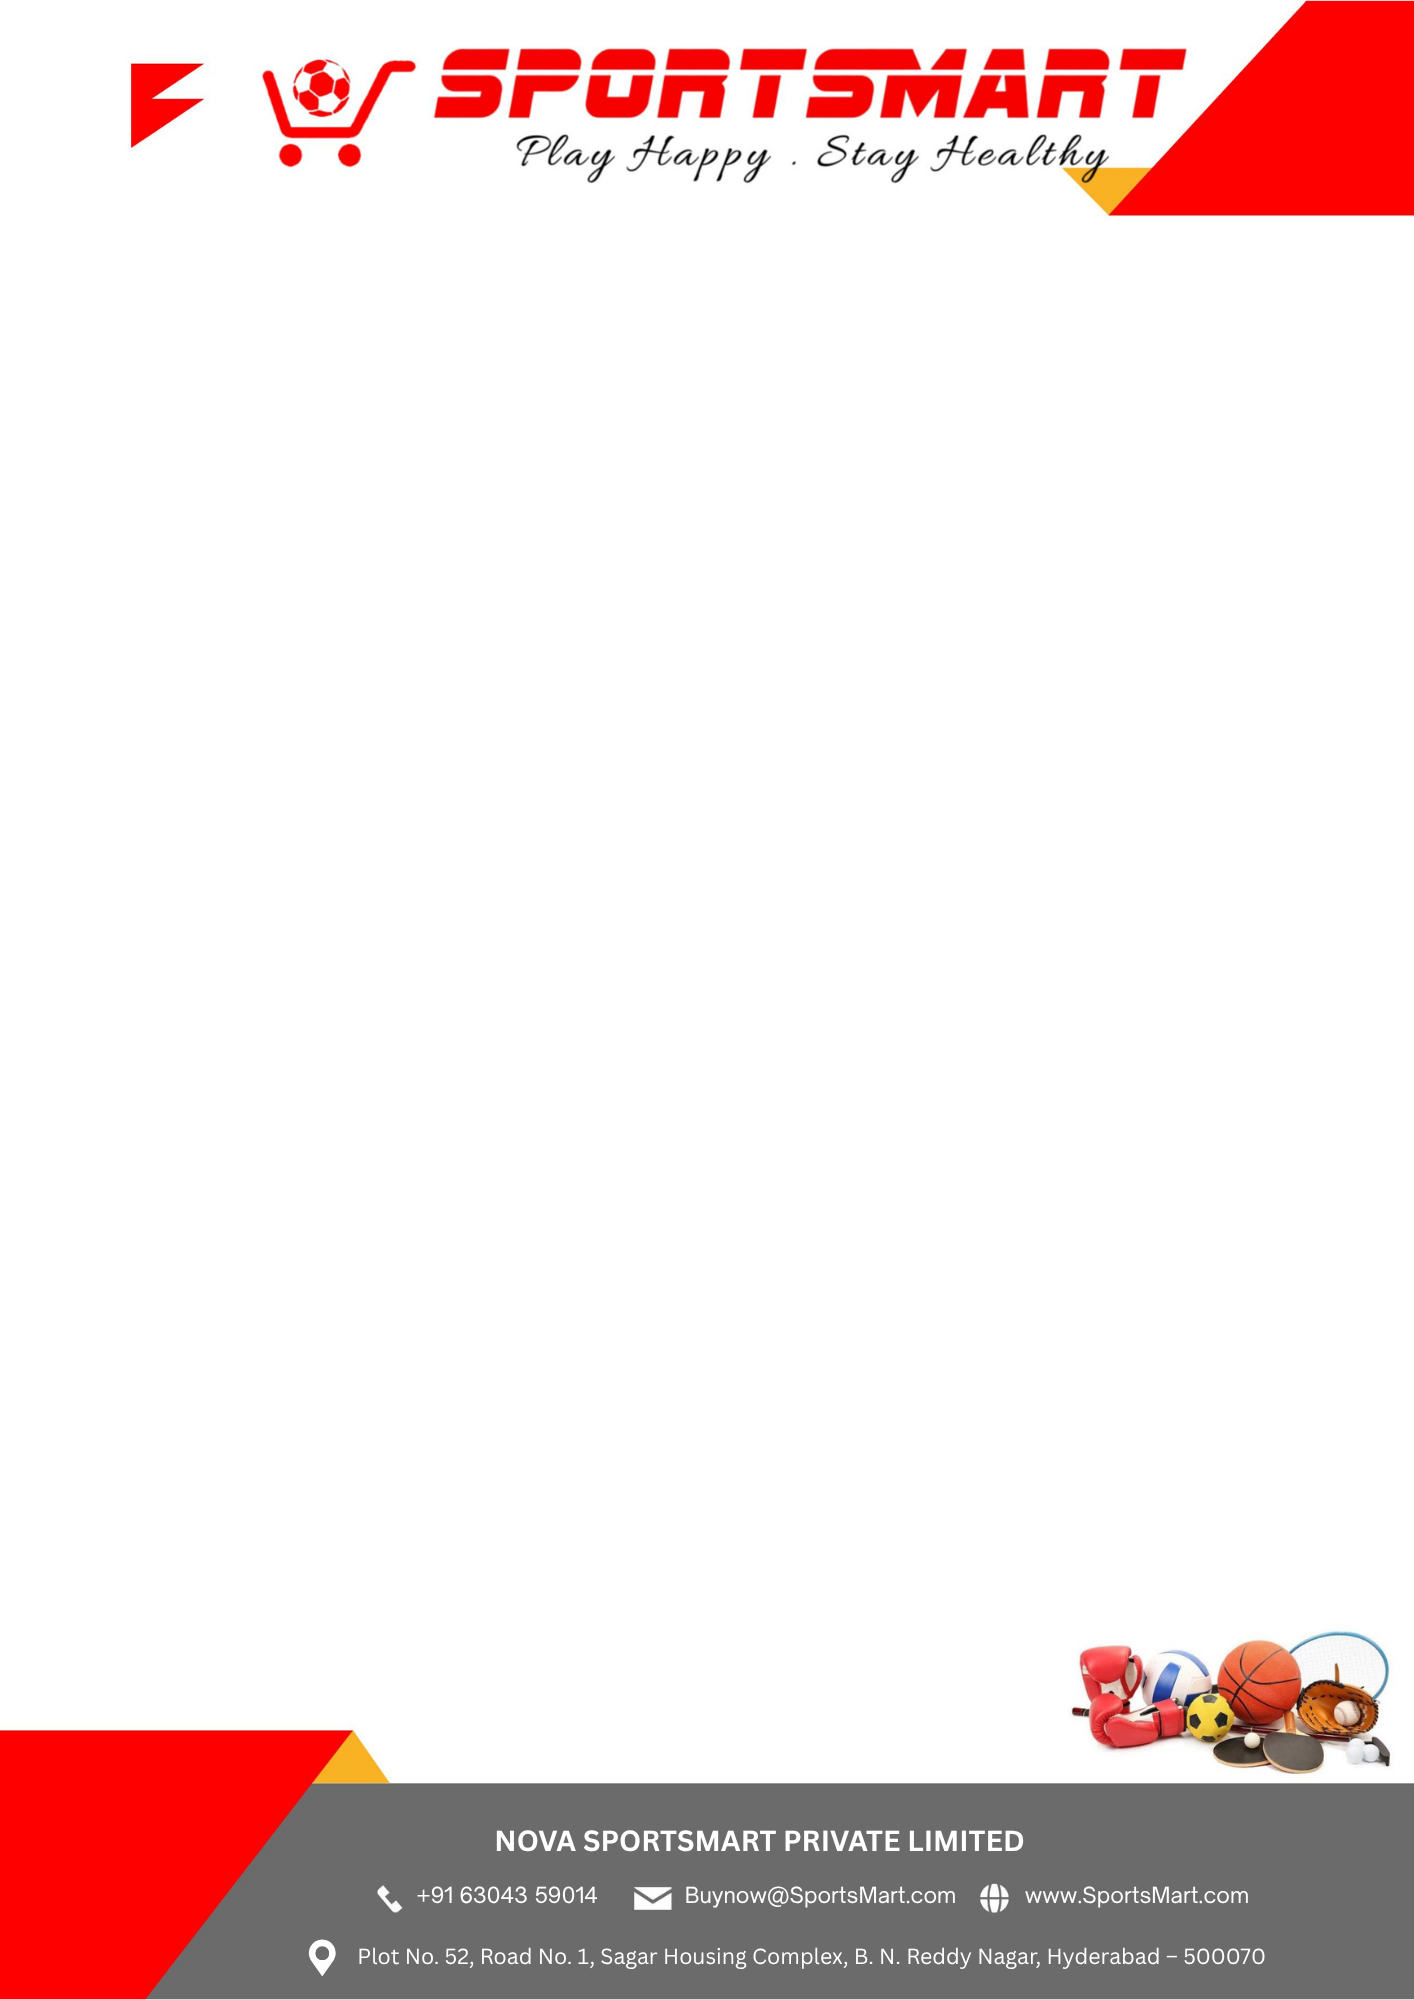
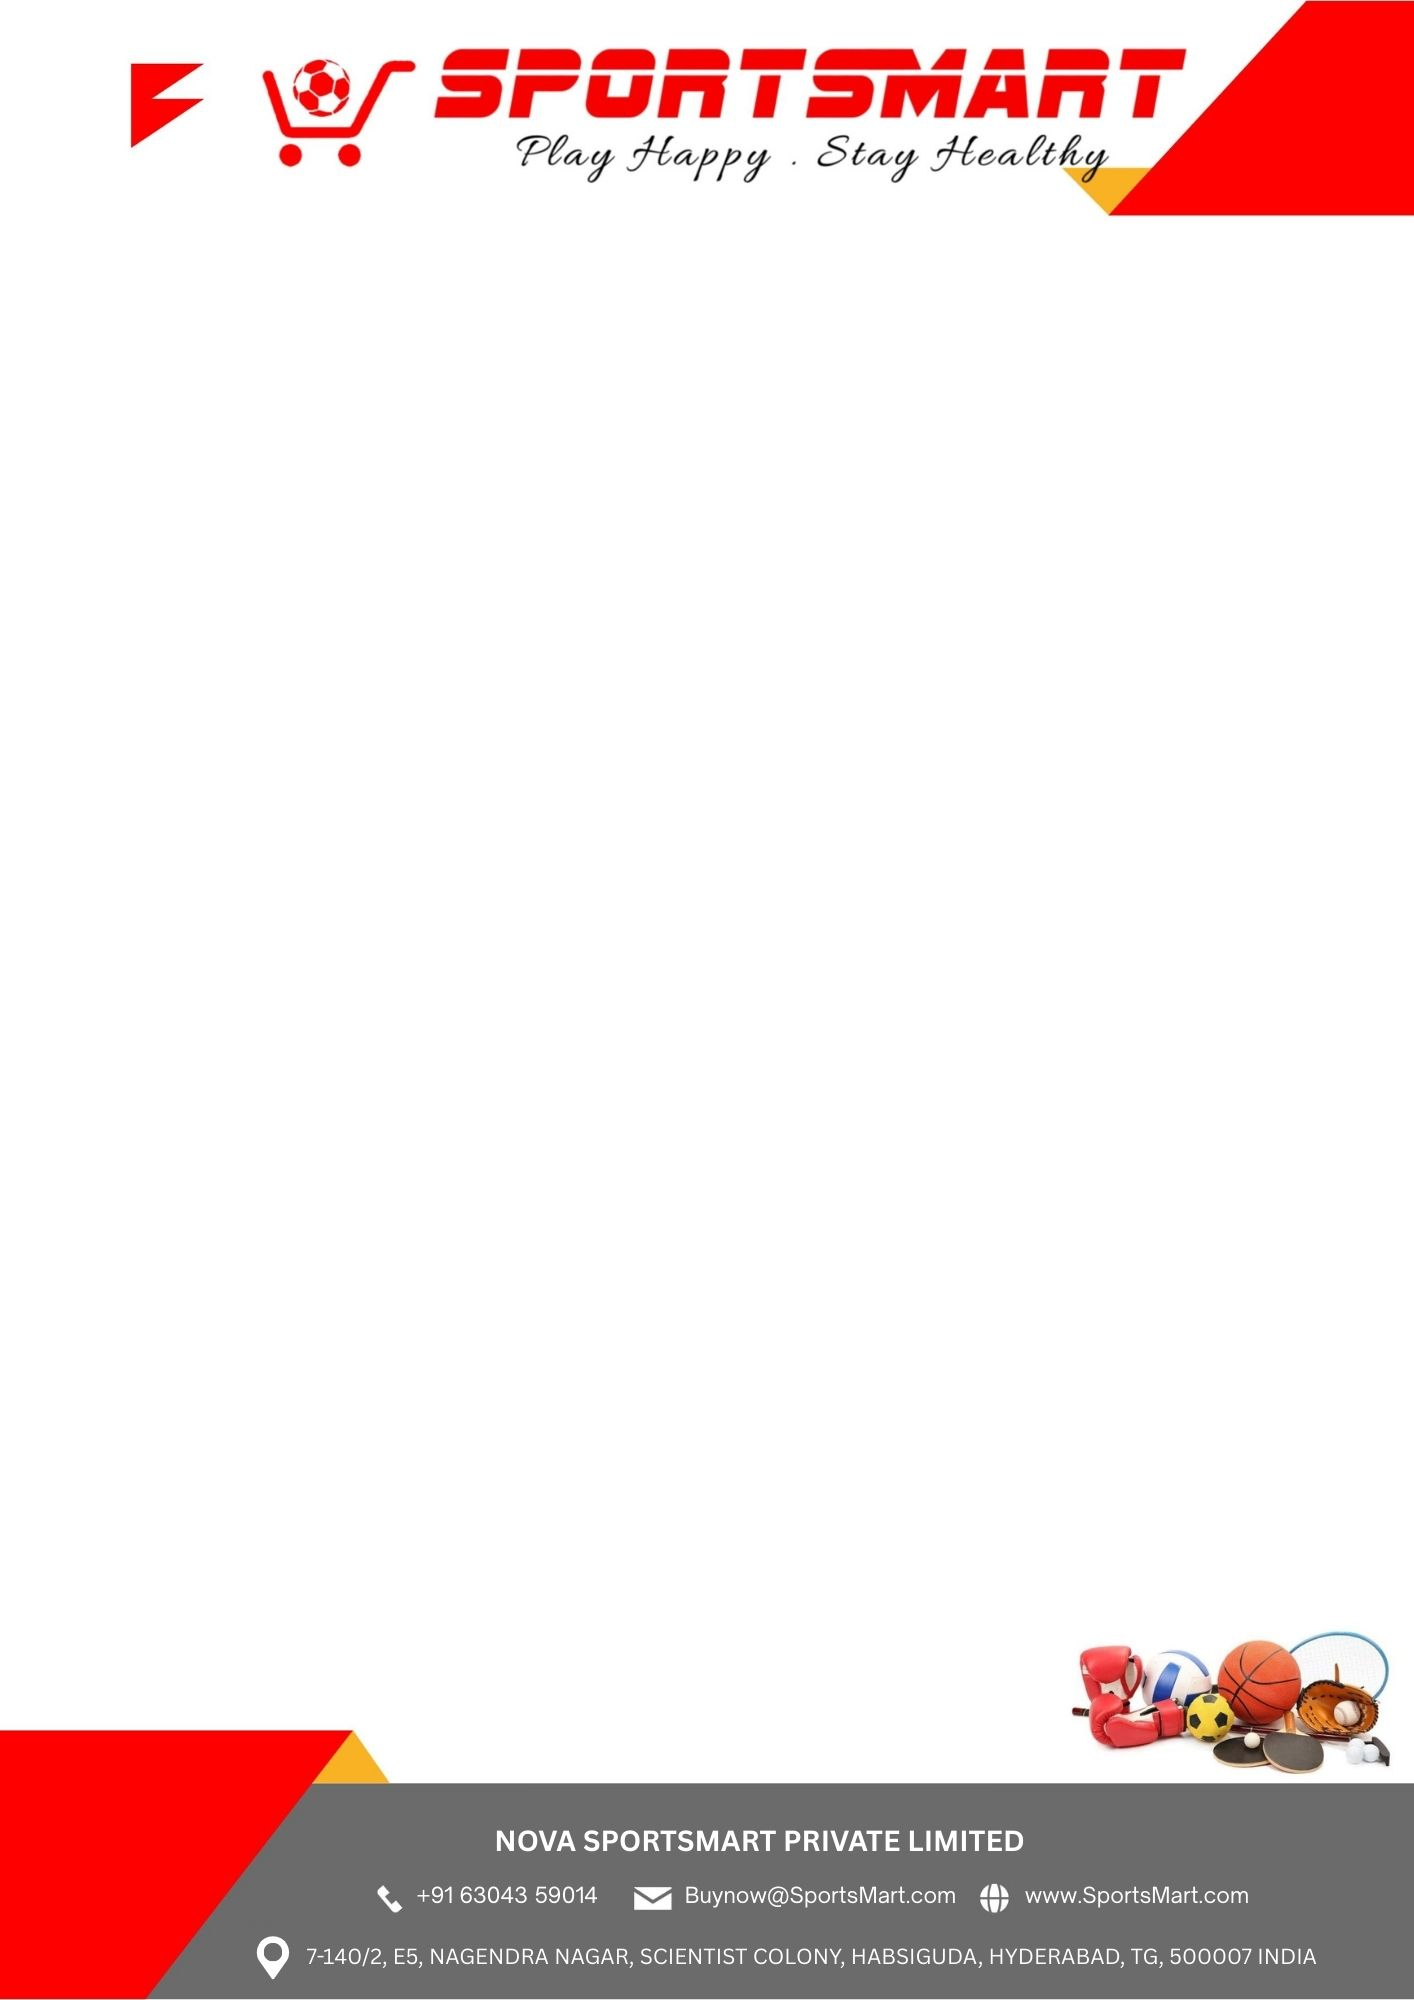
address updated

diff --git a/src/components/EBS-INDIA/Sportsmart/Offerletter/Offer.jsx b/src/components/EBS-INDIA/Sportsmart/Offerletter/Offer.jsx
@@ -27,8 +27,12 @@ const ComponentToPrint = React.forwardRef((props, ref) => {
             {Global.Offerform.position}
           </span>
           ” at
-          <span className="bol"> Nova Sportsmart Private Limited</span> Your
-          appointment is governed by the terms and conditions outlined below.
+          <span className="bol" style={{ fontSize: "15px" }}>
+            {" "}
+            Nova Sportsmart Private Limited
+          </span>{" "}
+          Your appointment is governed by the terms and conditions outlined
+          below.
         </p>
         <p className="let5">
           <span className="bol">1. JOB OFFER :</span> We are delighted to
@@ -49,10 +53,14 @@ const ComponentToPrint = React.forwardRef((props, ref) => {
             Panyam Sudheer
           </span>{" "}
           – Director. Your place of work will be
-          <span className="bol"> Nova Sportsmart Private Limited</span>, situated at{" "}
           <span className="bol" style={{ fontSize: "15px" }}>
-            Plot no: 52, Road no:1, BN Reddy, Saheb nagar kalan Sagar Housing
-            Complex 500070 Hyderabad TS India
+            {" "}
+            Nova Sportsmart Private Limited
+          </span>
+          , situated at{" "}
+          <span className="bol" style={{ fontSize: "15px" }}>
+            Plot No. 7-140/2, E-5 Nagendra Nagar, Scientist Colony Hyderabad,
+            Telangana 500007 India
           </span>
           . With our consulting services growing at a fast pace, we’re confident
           that your journey with us will be both enriching and successful. We
@@ -171,16 +179,18 @@ const ComponentToPrint = React.forwardRef((props, ref) => {
         </p>
         <p className="let21">
           ii) Your posting at present is at{" "}
-          <span className="bol">Nova Sportsmart Private Limited</span>. Hyderabad,
-          India during your employment with this company, you may be posted or
-          transferred to the other companies or else if you attached to any
-          other Group Company or to any of the offices/ subsidiaries/units/
-          associate offices of the company, to any town or city in India or
-          abroad, at the sole discretion of the Management. While working in
-          another company on transferred/ attached, you shall be entitled to
-          emoluments and perks as applicable in transferred/ attached company
-          and for all purposes you shall be deemed to be employed in the company
-          transferred/ attached.
+          <span className="bol" style={{ fontSize: "15px" }}>
+            Nova Sportsmart Private Limited
+          </span>
+          . Hyderabad, India during your employment with this company, you may
+          be posted or transferred to the other companies or else if you
+          attached to any other Group Company or to any of the offices/
+          subsidiaries/units/ associate offices of the company, to any town or
+          city in India or abroad, at the sole discretion of the Management.
+          While working in another company on transferred/ attached, you shall
+          be entitled to emoluments and perks as applicable in transferred/
+          attached company and for all purposes you shall be deemed to be
+          employed in the company transferred/ attached.
         </p>
 
         <div className="ds11"></div>
@@ -207,17 +217,19 @@ const ComponentToPrint = React.forwardRef((props, ref) => {
         </p>
         <p className="let25">
           vi) Information pertaining to operations of{" "}
-          <span className="bol">Nova Sportsmart Private Limited</span>. is the
-          intellectual property and is confidential, and you will sign a
-          non-disclosure agreement. You will not give anyone, by word of mouth,
-          writing, facsimile, email any devices or otherwise any particulars or
-          details, which you acquire during your employment of our working
-          systems, technical knowhow, security arrangements, Administrative and
-          or organization matters of our and our clients whether confidential,
-          secret or otherwise, either during your employment with Company or
-          afterwards. If you are bound by a confidentiality agreement with a
-          previous employer, you must notify the Company and indemnify the
-          Company against any breach thereof.
+          <span className="bol" style={{ fontSize: "15px" }}>
+            Nova Sportsmart Private Limited
+          </span>
+          . is the intellectual property and is confidential, and you will sign
+          a non-disclosure agreement. You will not give anyone, by word of
+          mouth, writing, facsimile, email any devices or otherwise any
+          particulars or details, which you acquire during your employment of
+          our working systems, technical knowhow, security arrangements,
+          Administrative and or organization matters of our and our clients
+          whether confidential, secret or otherwise, either during your
+          employment with Company or afterwards. If you are bound by a
+          confidentiality agreement with a previous employer, you must notify
+          the Company and indemnify the Company against any breach thereof.
         </p>
         <p className="let26">
           vii) The Company shall have the right to claim damages from you if you
